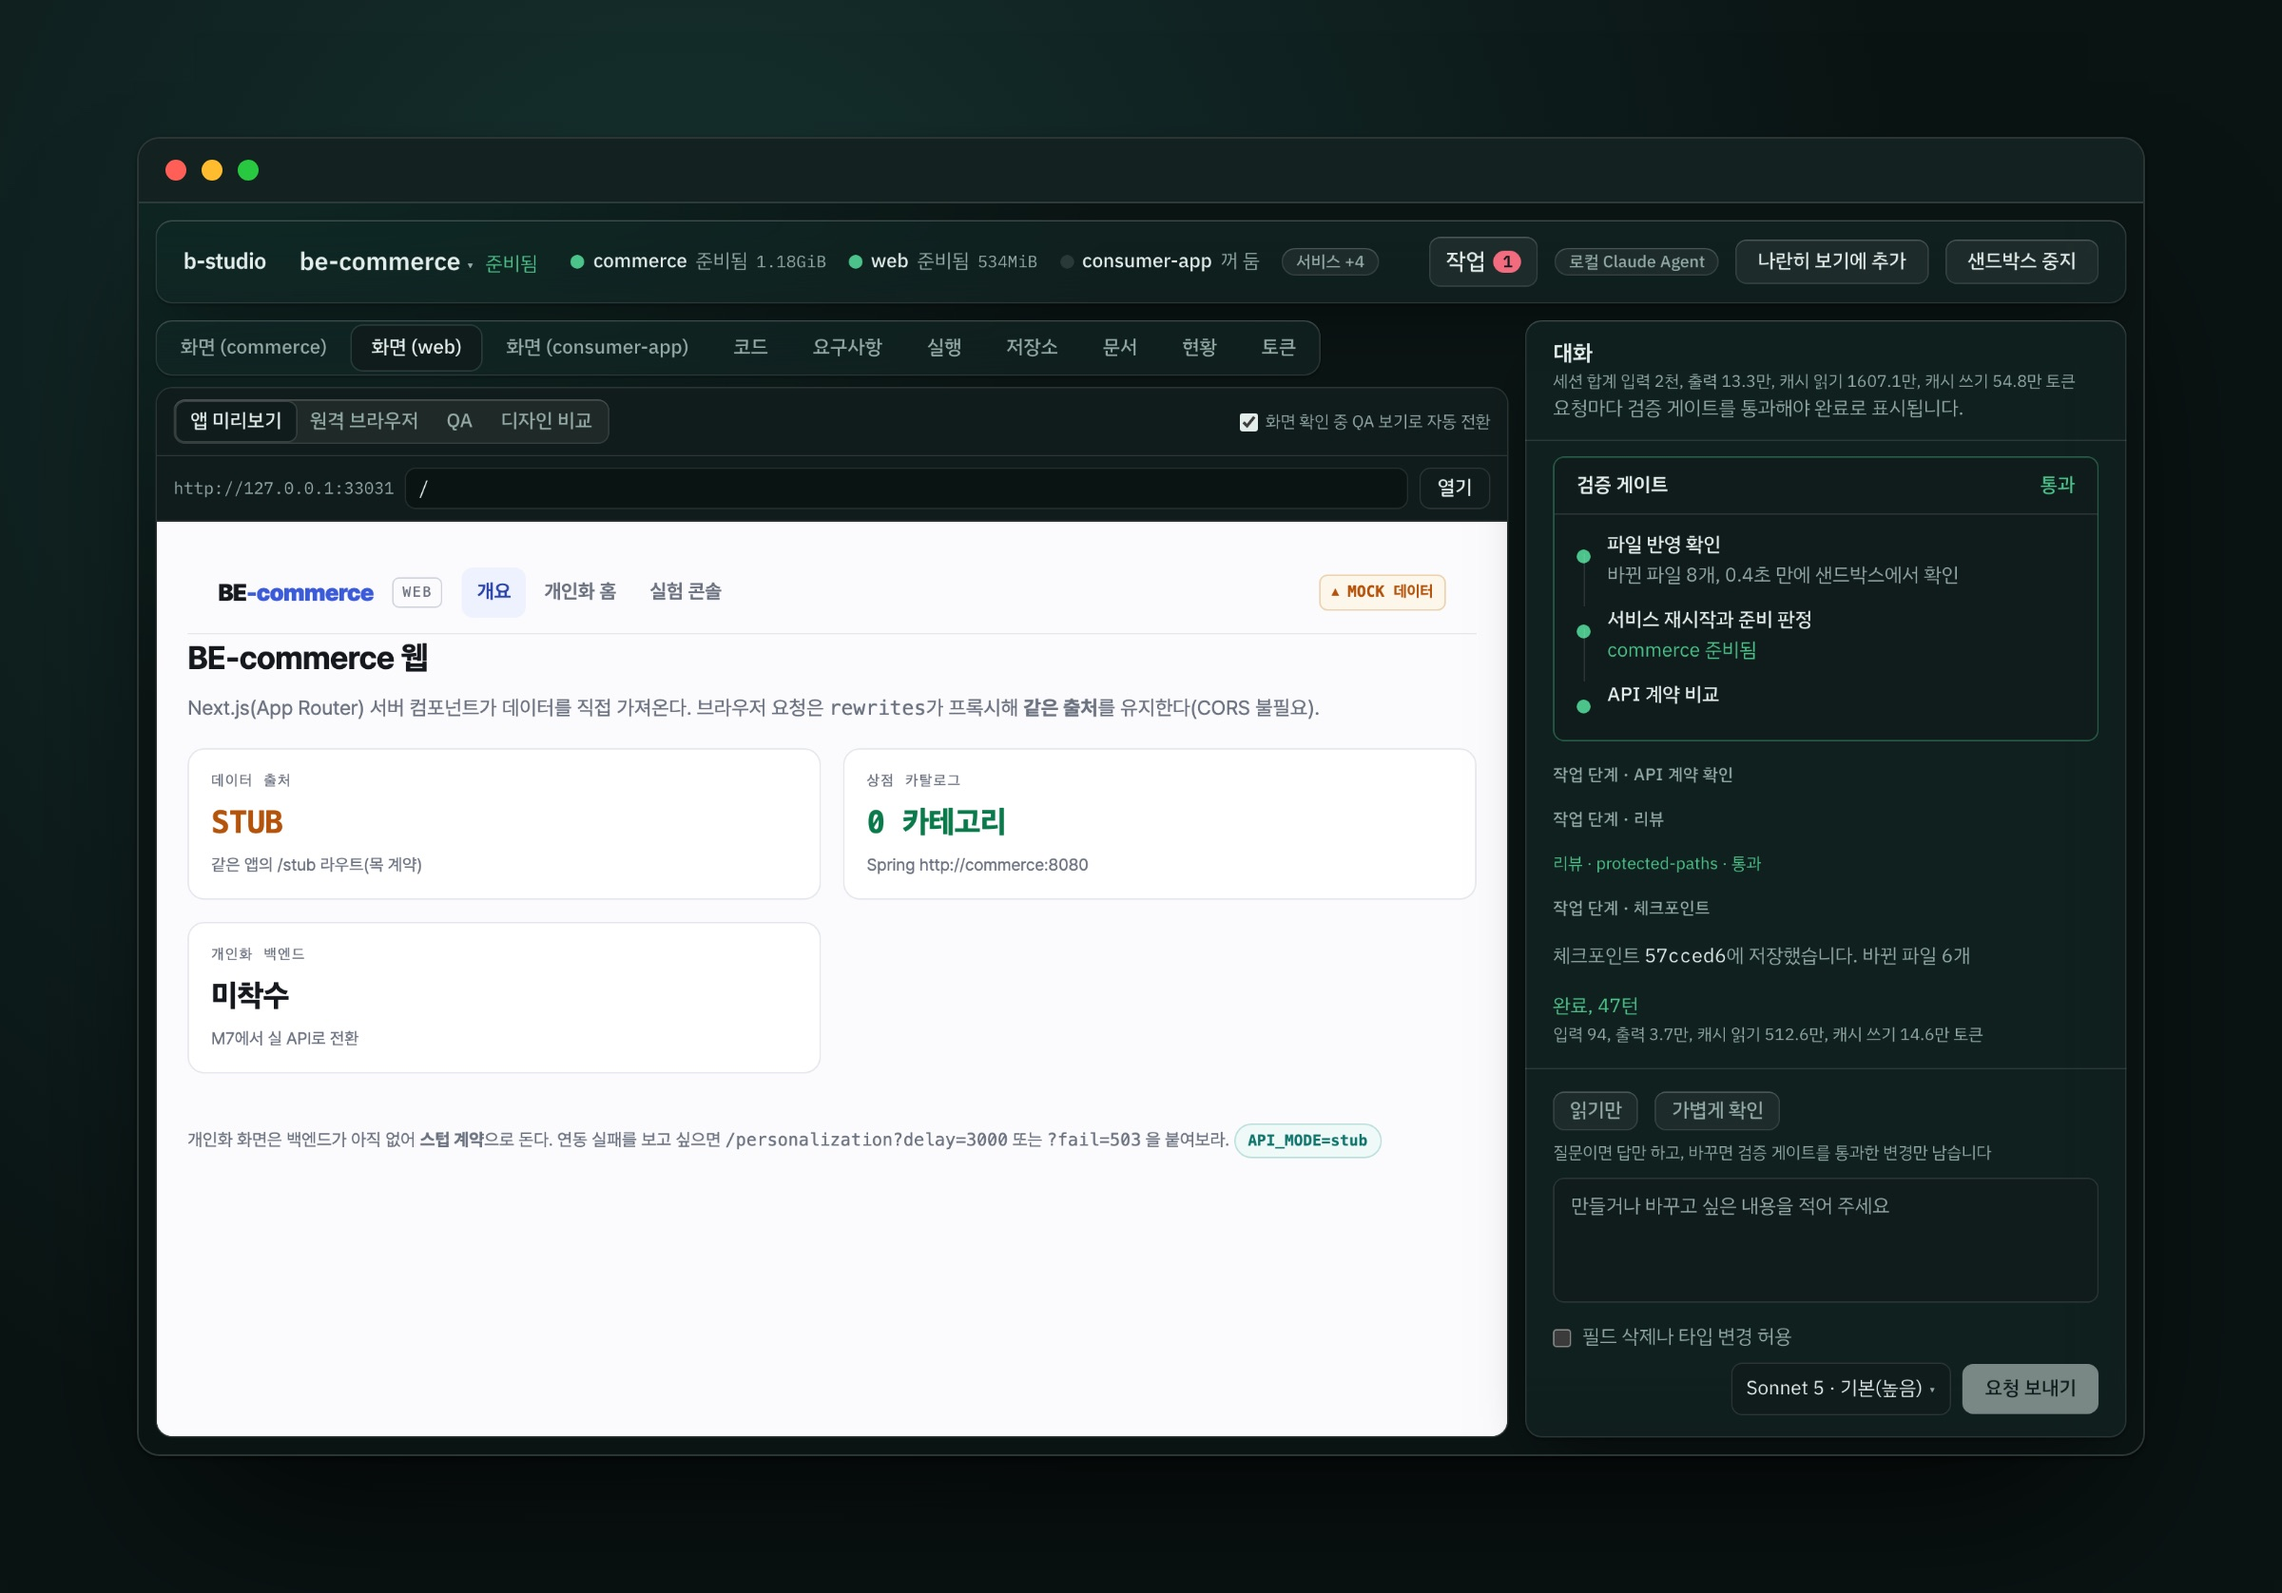
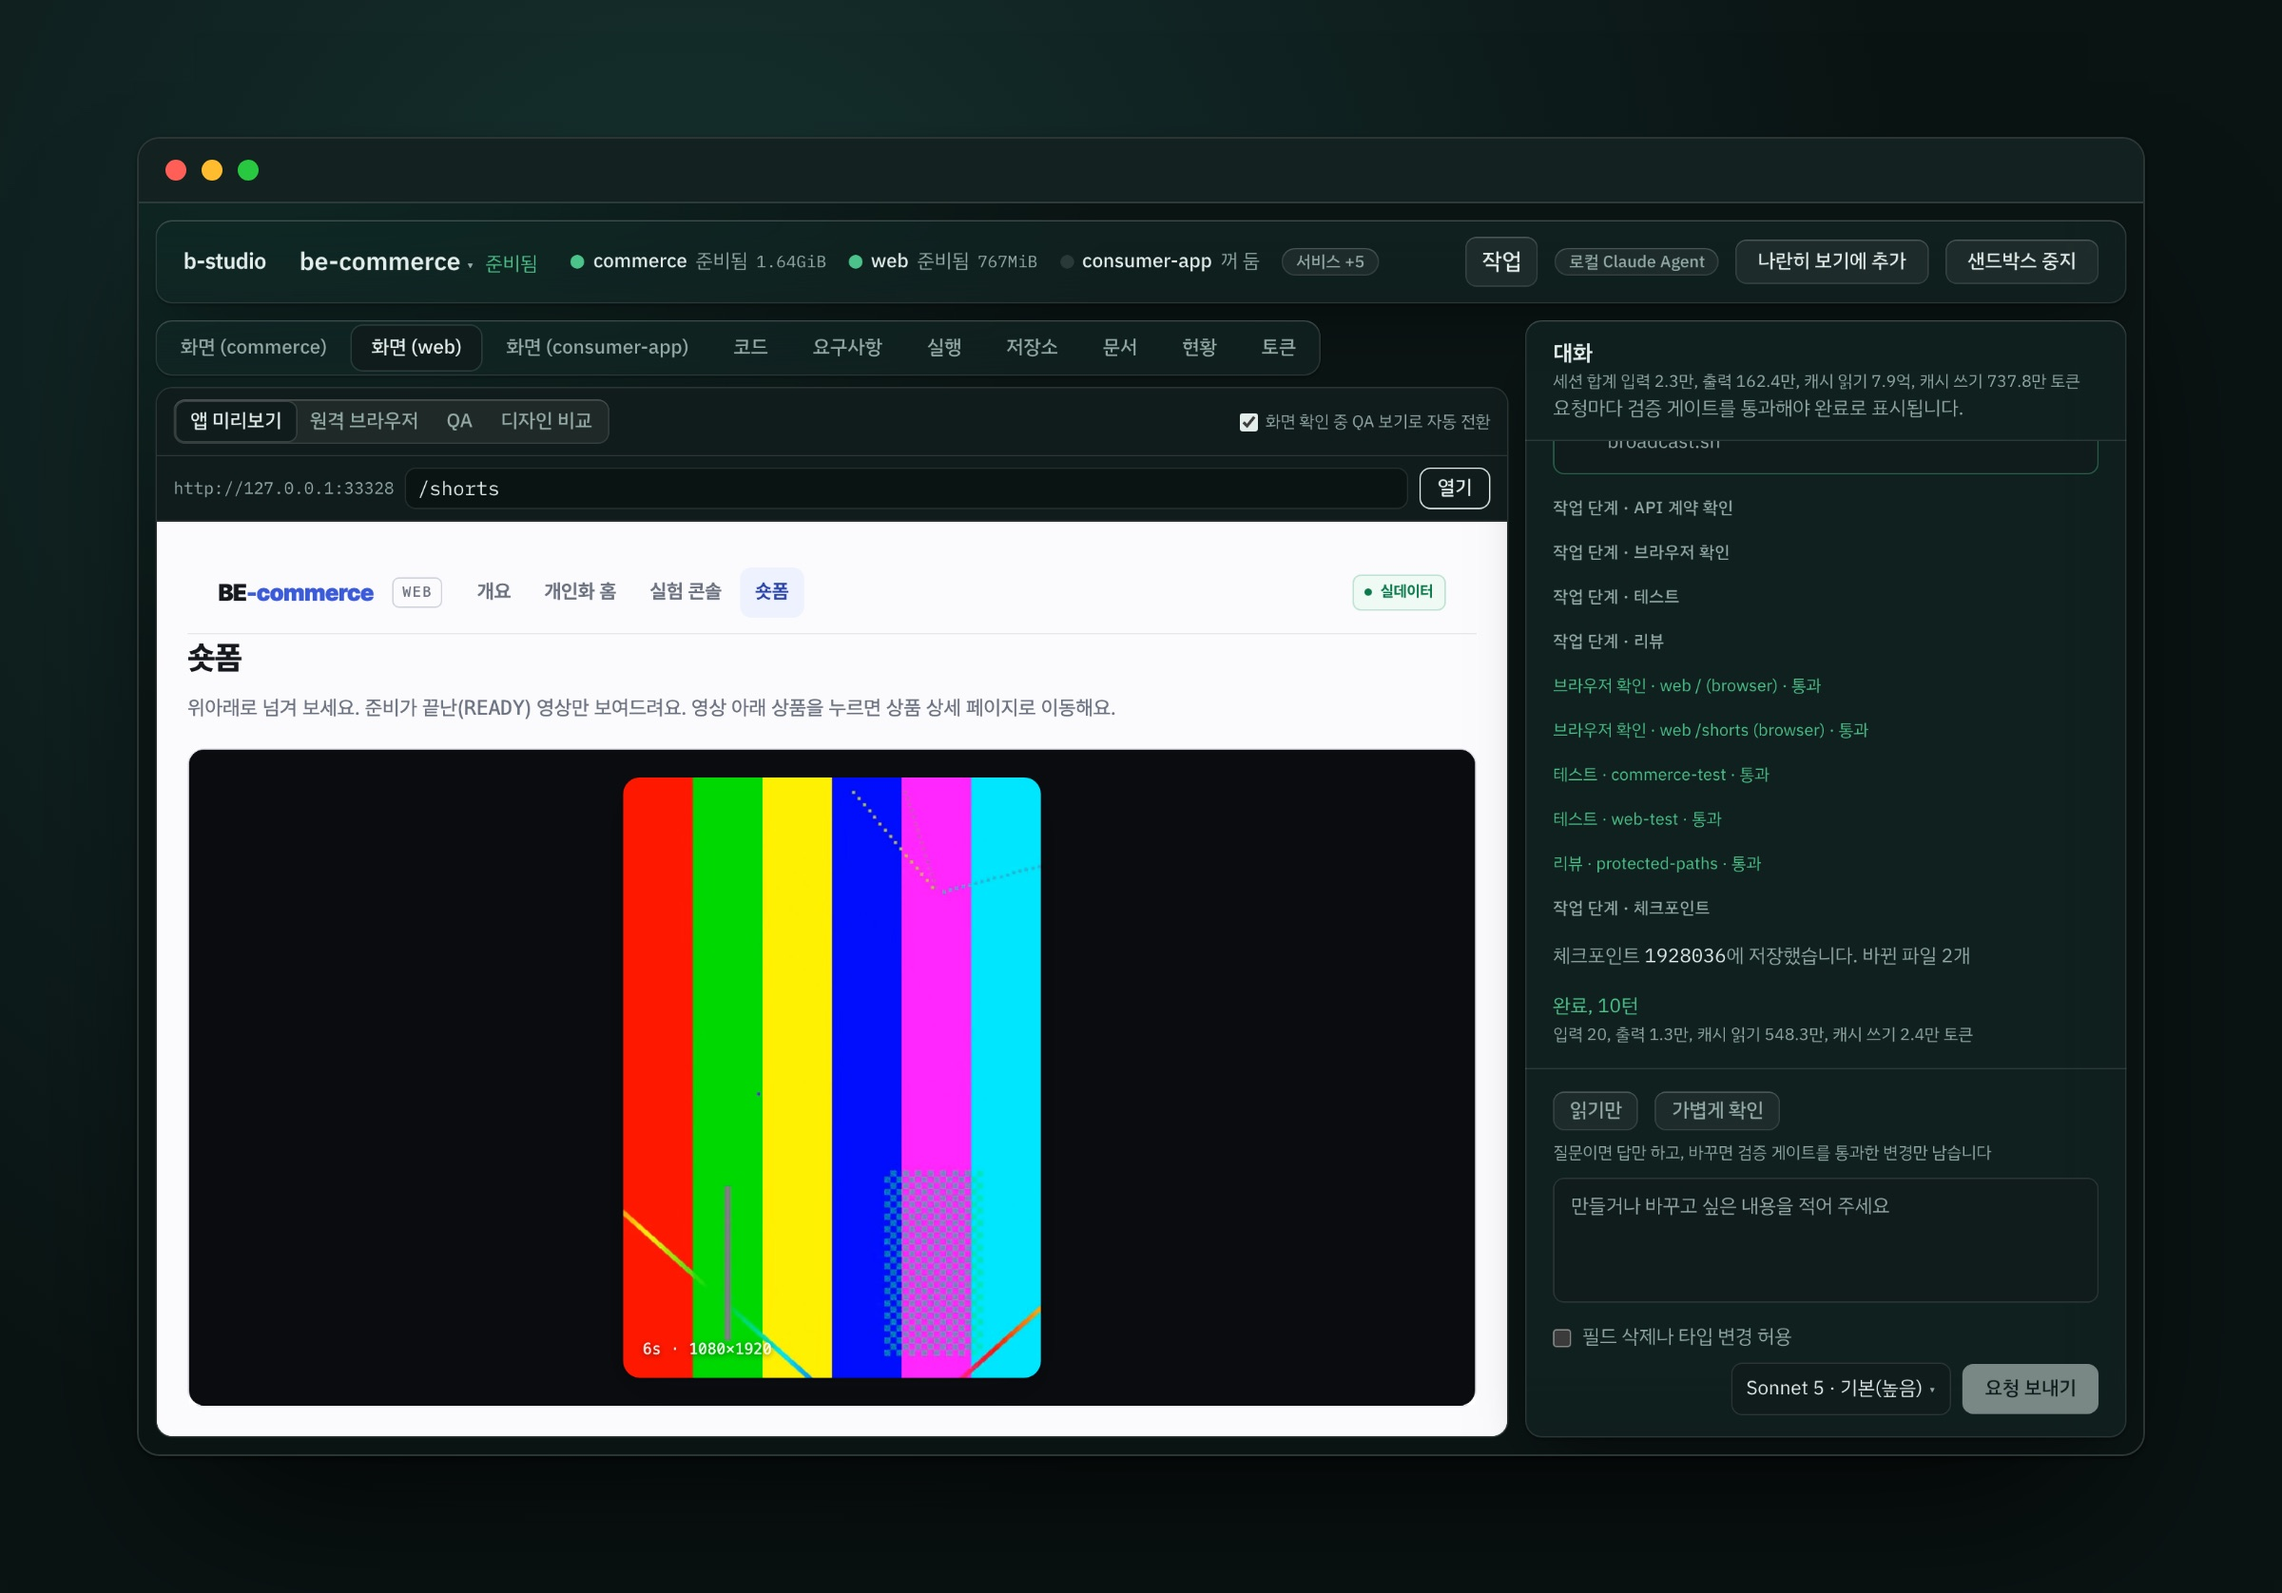
docs: README 캡처를 숏폼 재생과 요구사항 검증 현황으로 바꾼다

diff --git a/scripts/screenshots/capture.ts b/scripts/screenshots/capture.ts
@@ -26,6 +26,8 @@ const PLAN_ID = process.env.PLAN_ID ?? "45539ab6";
 /** 미리보기로 찍을 프런트엔드 탭 이름. 탭은 "화면 (<서비스 이름>)"이라 프로젝트마다 다르다 */
 const FRONTEND_TAB = process.env.FRONTEND_TAB ?? "화면 (frontend)";
 /** 쉼표로 고른 사진만 찍는다(예: ONLY=studio-hero-light,studio-requirements). 비우면 전부 */
+/** 히어로 이미지에서 미리보기로 열 경로. 비우면 앱 첫 화면 그대로 둔다(예: HERO_PREVIEW_PATH=/shorts) */
+const HERO_PREVIEW_PATH = process.env.HERO_PREVIEW_PATH ?? "";
 const ONLY = (process.env.ONLY ?? "").split(",").map((name) => name.trim()).filter(Boolean);
 const MAX_BYTES = 600_000;
 
@@ -98,6 +100,17 @@ async function snapChatToCleanTop(page: Page): Promise<void> {
   });
 }
 
+/** HERO_PREVIEW_PATH가 있으면 미리보기 경로 입력칸에 넣고 열어, 영상이 재생될 시간을 기다린다 */
+async function openHeroPreviewPath(page: Page): Promise<void> {
+  if (!HERO_PREVIEW_PATH) return;
+  // "화면 확인 중 QA 보기로 자동 전환"이 앱 미리보기를 다시 QA 보기로 덮을 수 있어, 입력 직전에 한 번 더 고른다
+  await clickTab(page, "화면 하위 탭", "앱 미리보기");
+  await page.locator("#preview-path").waitFor({ state: "visible", timeout: 15_000 });
+  await page.locator("#preview-path").fill(HERO_PREVIEW_PATH);
+  await page.getByRole("button", { name: "열기", exact: true }).click();
+  await page.waitForTimeout(8000);
+}
+
 const SHOTS: ShotSpec[] = [
   {
     name: "studio-hero-light",
@@ -113,6 +126,7 @@ const SHOTS: ShotSpec[] = [
       // 곧장 QA 보기로 덮어쓴다 — 게시판 화면을 보여주려면 앱 미리보기로 다시 돌려놓는다
       await clickTab(page, "화면 하위 탭", "앱 미리보기");
       await page.waitForTimeout(2200);
+      await openHeroPreviewPath(page);
     },
   },
   {
@@ -127,6 +141,7 @@ const SHOTS: ShotSpec[] = [
       await page.waitForTimeout(1200);
       await clickTab(page, "화면 하위 탭", "앱 미리보기");
       await page.waitForTimeout(2200);
+      await openHeroPreviewPath(page);
     },
   },
   {

diff --git a/README.md b/README.md
@@ -11,7 +11,7 @@
 
 <picture>
   <source media="(prefers-color-scheme: dark)" srcset="docs/images/studio-hero-dark.jpg">
-  <img src="docs/images/studio-hero-light.jpg" width="760" alt="개발 화면. 이커머스 백엔드(Spring Boot)와 웹(Next.js)을 샌드박스에 띄워 둔 상태로, 오른쪽 대화에는 숏폼 상태 머신 요청이 검증 게이트(파일 반영, 서비스 재시작과 준비 판정, API 계약 비교, 리뷰)를 통과해 체크포인트로 남은 기록이 보인다">
+  <img src="docs/images/studio-hero-light.jpg" width="760" alt="개발 화면. 이커머스 백엔드(Spring Boot)와 웹(Next.js), 미디어 서버를 샌드박스에 띄워 둔 상태로, 왼쪽 미리보기에서는 숏폼 피드(/shorts)가 FFmpeg로 변환한 세로 영상을 재생한다. 오른쪽 대화에는 요청이 검증 게이트(브라우저 화면 확인 /, /shorts, 백엔드·웹 테스트, 리뷰)를 통과해 체크포인트로 남은 기록이 보인다">
 </picture>
 
 ## 핵심 설계 세 가지
@@ -84,7 +84,7 @@
 | 실행 환경 | 샌드박스 로그·자원, 사용자가 직접 띄운 서비스를 보기만 하는 "내 환경", 설정한 프로젝트의 운영 이미지 배포와 롤백 |
 | 앱 | 웹 스튜디오, CLI, macOS 데스크톱 앱 |
 
-<img src="docs/images/studio-requirements.jpg" width="760" alt="요구사항 탭. 라이브 커머스·숏폼 명세에서 뽑은 요구사항 32개가 인수 조건과 함께 보이고, 요구사항마다 검증 근거를 추적한다">
+<img src="docs/images/studio-requirements.jpg" width="760" alt="요구사항 탭. 라이브 커머스·숏폼 명세에서 뽑은 요구사항 32개 중 11개가 검증됨으로 표시되고, 요구사항마다 아직 테스트가 없는 시나리오 수가 배지로 보인다">
 
 ## 빠른 시작
 

diff --git a/CHANGELOG.md b/CHANGELOG.md
@@ -163,6 +163,7 @@
 
 ### 문서
 
+- README 첫 화면과 요구사항 화면 캡처를 BE-commerce 세션의 지금 상태로 바꿨습니다(숏폼 피드가 변환한 영상을 재생, 요구사항 32개 중 11개 검증). 캡처 스크립트에 `HERO_PREVIEW_PATH`(미리보기로 열 경로)를 더했습니다.
 - 실험 E12에 배선을 고친 뒤의 재측정(E12b)을 더합니다. 혼합 레인 9/9, Command Code 레인 게시판 사용 9/9, Claude 토큰은 단독의 23%이고, 대가는 Command Code 1,818만 토큰과 종단 시간 2.5배입니다.
 - README 대표 사진과 요구사항 화면을 다음 도그푸딩 프로젝트(이커머스 백엔드 + 라이브 커머스·숏폼 명세) 화면으로 다시 찍어 넣습니다. 캡처 스크립트는 프런트엔드 탭 이름(`FRONTEND_TAB`)과 찍을 사진(`ONLY`)을 고를 수 있게 했습니다.
 - 실험 E12(레인마다 다른 CLI 혼합) 결과를 남깁니다. 혼합 4/9 대 Claude 단독 9/9이고, 원인은 Command Code 실행기가 게시판 도구를 받지 못한 배선 문제였습니다. 같은 실행에서 게시판 읽기 시점 안내(#396)의 효과를 확인했습니다.
